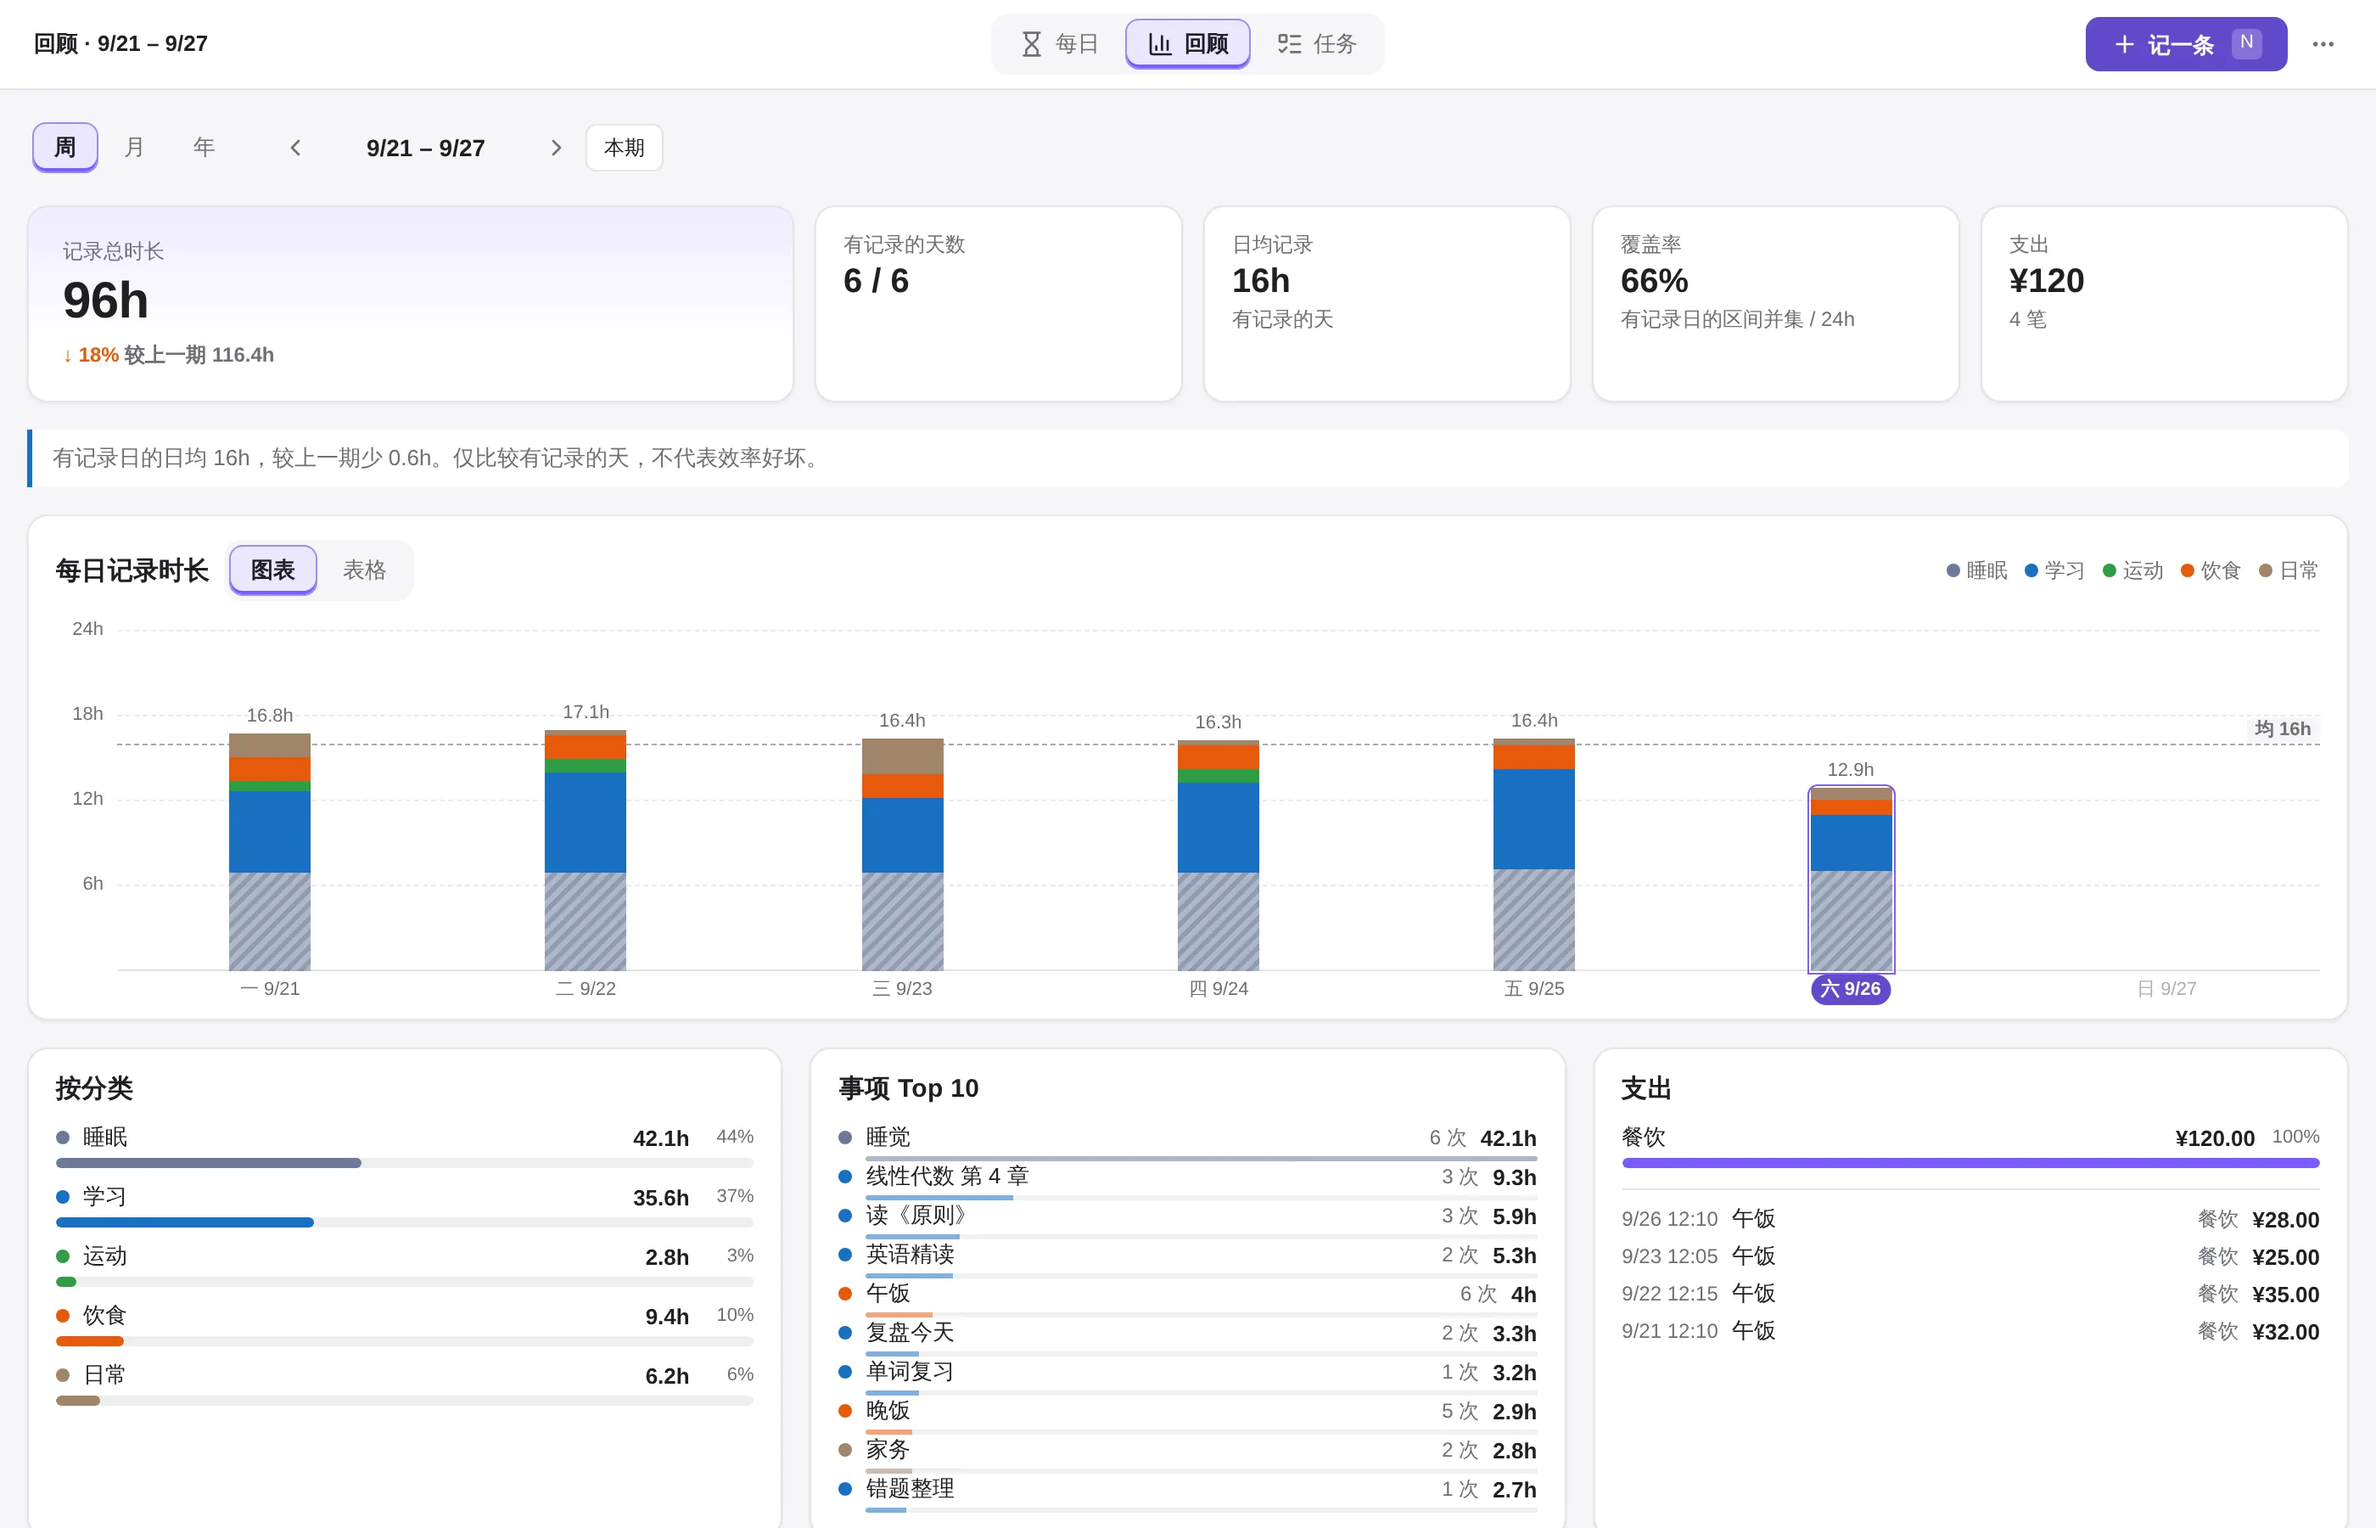
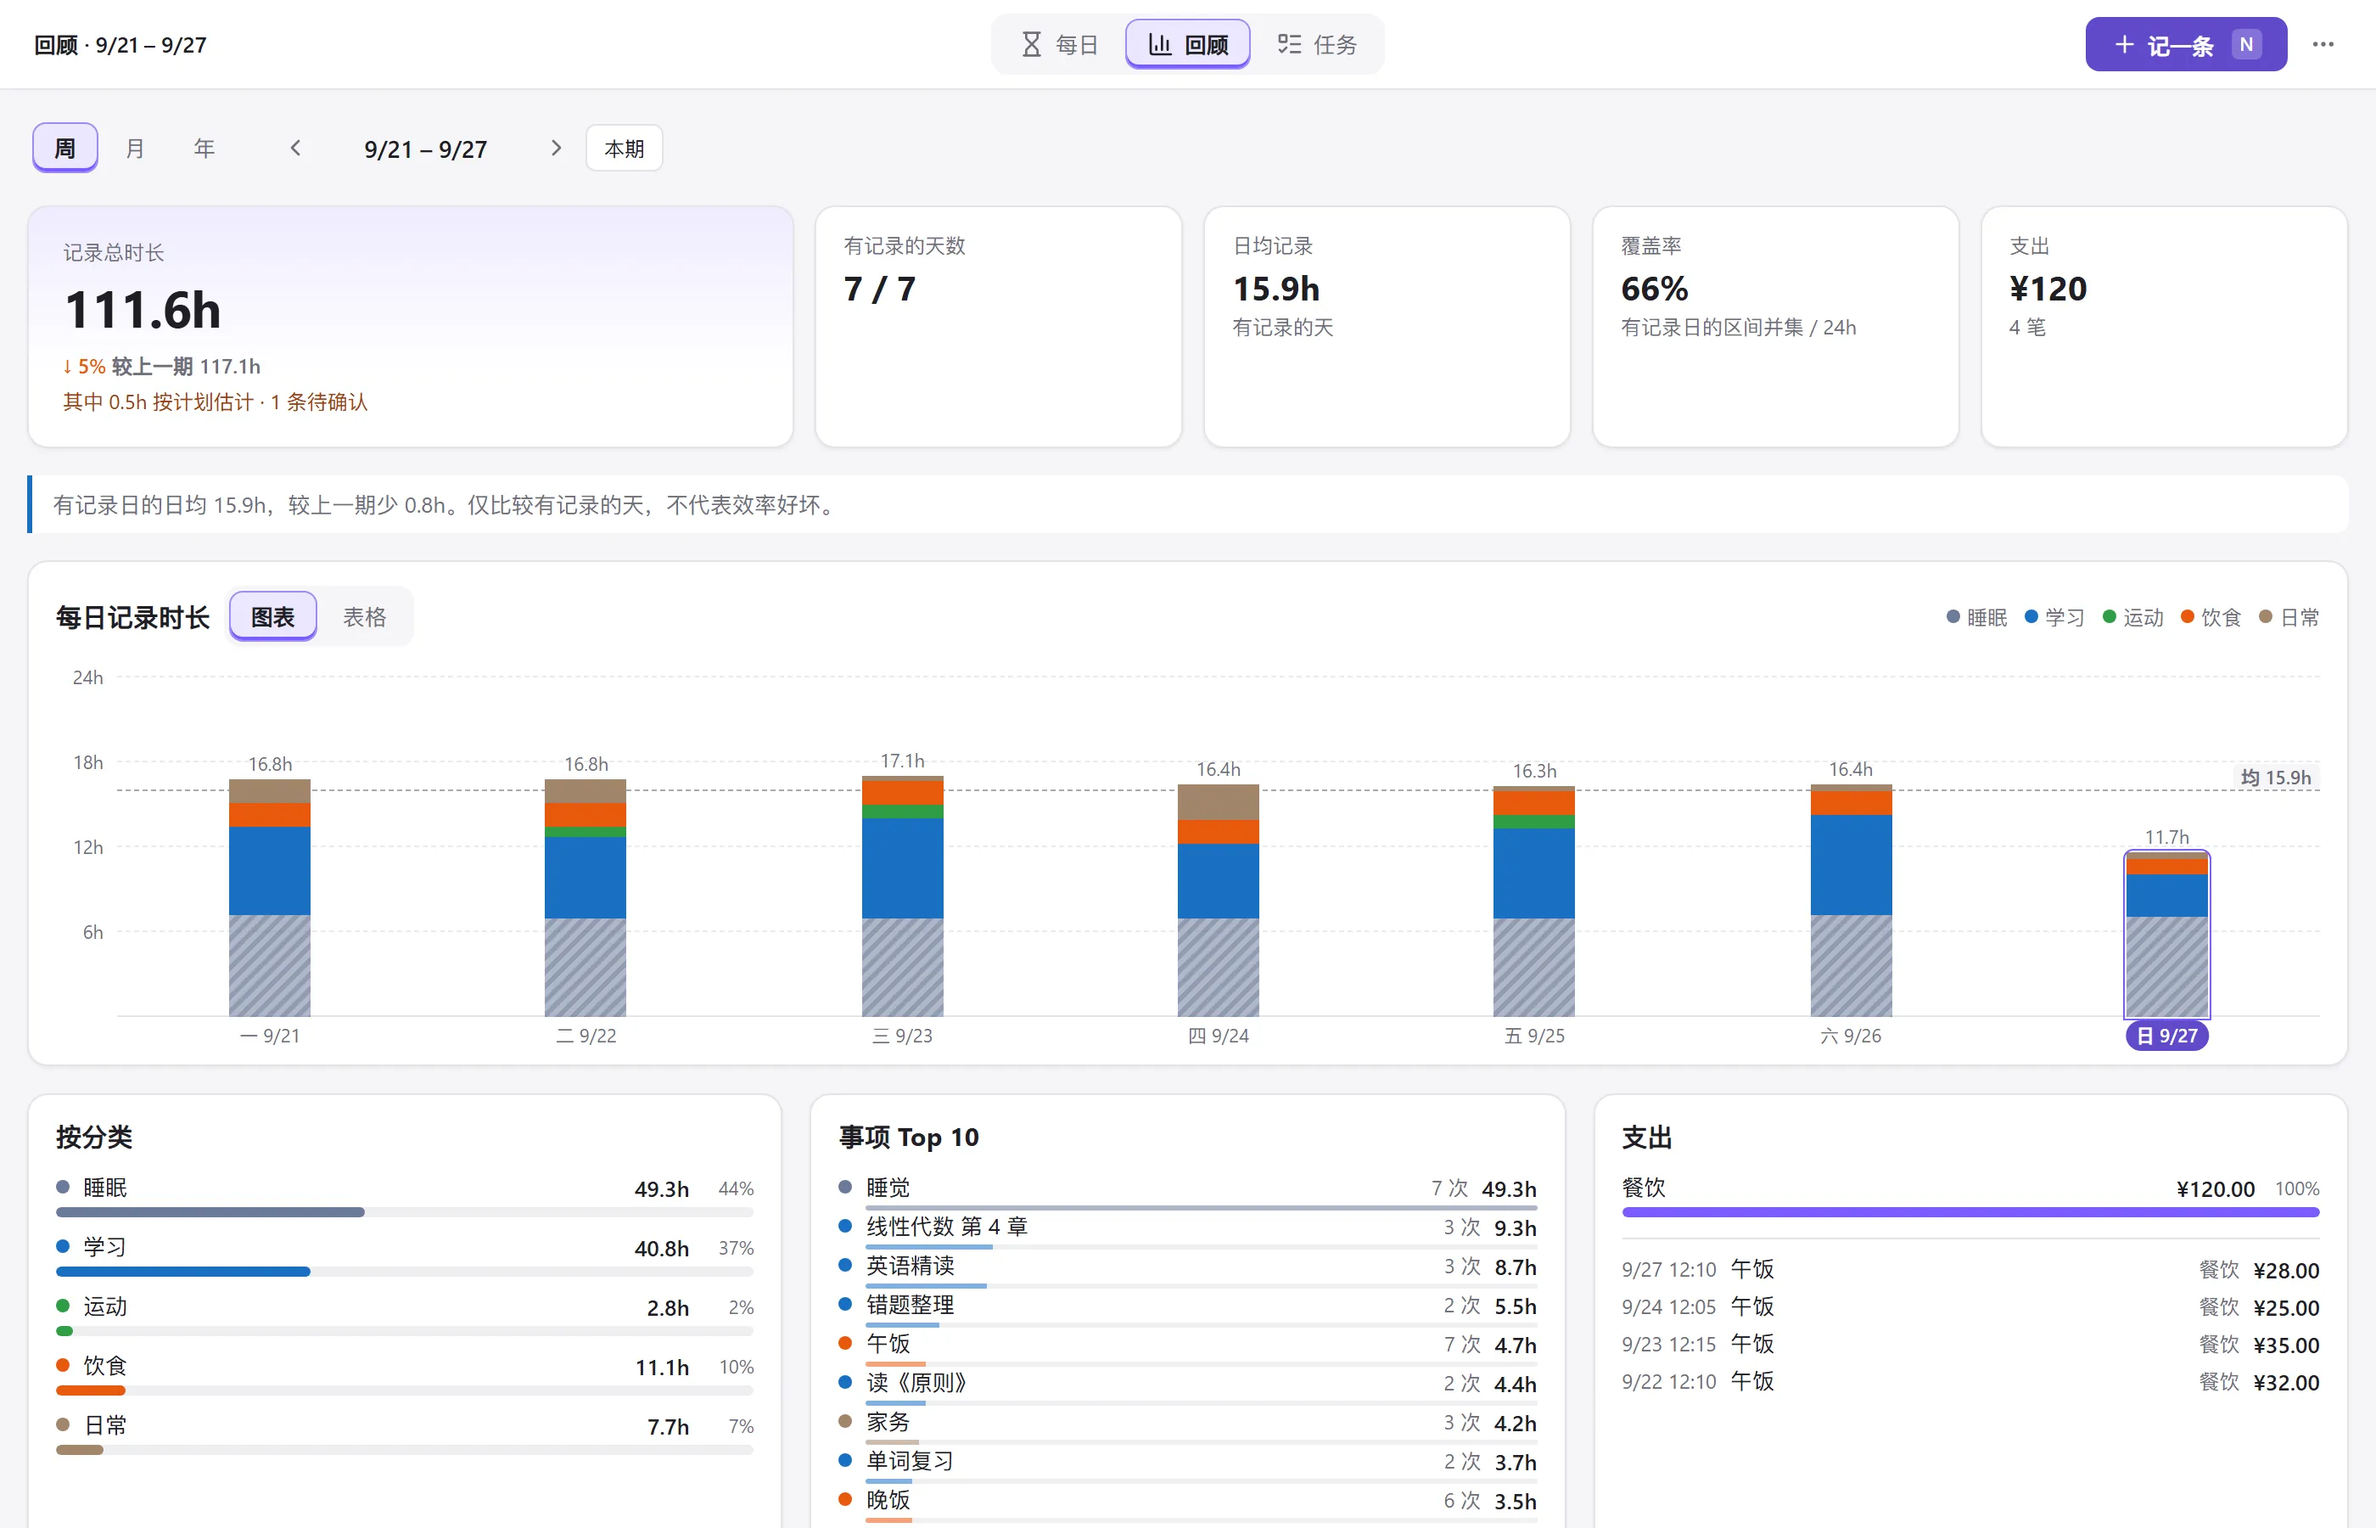
docs: README 与教学手册更新到 v1.5，截图全部重拍（演示数据补计划列 / 待确认示例，截图脚本固定时钟）

diff --git a/插件源码/lubi/scripts/screenshots.py b/插件源码/lubi/scripts/screenshots.py
@@ -4,7 +4,8 @@
 #   TZ=Asia/Shanghai node test/preview-manual.mjs    # 渲染静态预览页到 preview/manual/
 #   pip install playwright pillow && python -m playwright install chromium
 #   TZ=Asia/Shanghai python scripts/screenshots.py
-# 字体默认 Noto Sans CJK，可用 LUBI_FONT / LUBI_FONT_BOLD 指定。
+# 字体默认 Noto Sans CJK，可用 LUBI_FONT / LUBI_FONT_BOLD / LUBI_FONT_INDEX 指定
+# （Windows：LUBI_FONT=C:/Windows/Fonts/msyh.ttc LUBI_FONT_BOLD=C:/Windows/Fonts/msyhbd.ttc LUBI_FONT_INDEX=0）。
 import os
 from PIL import Image, ImageDraw, ImageFilter, ImageFont
 import asyncio, pathlib, io
@@ -16,7 +17,7 @@ RD = ROOT.parents[1] / "docs" / "images"                     # README 配图
 MAN.mkdir(parents=True, exist_ok=True); RD.mkdir(parents=True, exist_ok=True)
 def save(png, path, q=84):
     Image.open(io.BytesIO(png)).convert("RGB").save(path, "WEBP", quality=q, method=6)
-SCROLL = "(()=>{const s=document.querySelector('.lubi-timeline-scroll'); if(s) s.scrollTop=7*56-8; const w=document.querySelector('.lubi-week-body'); if(w) w.scrollTop=2*44-6;})()"
+SCROLL = "(()=>{const s=document.querySelector('.lubi-timeline-scroll'); if(s) s.scrollTop=7*48-8; const w=document.querySelector('.lubi-week-body'); if(w) w.scrollTop=2*48-6;})()"
 async def hover_big(pg):
     gaps = await pg.query_selector_all(".lubi-gap")
     best = max([(((await g.bounding_box()) or {"height":0})["height"], i) for i, g in enumerate(gaps)])
@@ -70,7 +71,8 @@ def hero():
         d.line([(0, y), (W, y)], fill=c)
     font = os.environ.get("LUBI_FONT_BOLD", "/usr/share/fonts/opentype/noto/NotoSansCJK-Bold.ttc")
     reg = os.environ.get("LUBI_FONT", "/usr/share/fonts/opentype/noto/NotoSansCJK-Regular.ttc")
-    F = lambda p, s, i=2: ImageFont.truetype(p, s, index=i)  # index 2 = SC
+    FI = int(os.environ.get("LUBI_FONT_INDEX", "2"))  # Noto CJK .ttc 里 index 2 = SC；Windows 微软雅黑用 0
+    F = lambda p, s, i=FI: ImageFont.truetype(p, s, index=i)
     def card(path, w):
         im = Image.open(path).convert("RGB")
         h = int(im.height * w / im.width); im = im.resize((w, h), Image.LANCZOS)
@@ -90,7 +92,7 @@ def hero():
     y = 392
     for t in ["记一条 · 时间轴与一行快速记录", "看一眼 · 周 / 月 / 年回顾与热力图", "排一下 · 周日程、负载条与项目"]:
         d.ellipse([70, y + 11, 80, y + 21], fill="#5b45c9"); d.text((94, y), t, font=F(reg, 22), fill="#3b3a4a"); y += 42
-    pill = "v1.4 · 纯 Markdown 数据 · 开源 MIT"
+    pill = "v1.5 · 纯 Markdown 数据 · 开源 MIT"
     tw = d.textlength(pill, font=F(reg, 19))
     d.rounded_rectangle([68, 540, 68 + tw + 40, 580], 20, fill="#5b45c9")
     d.text((88, 547), pill, font=F(reg, 19), fill="white")

diff --git a/docs/mcp-lubi-v1.5-changes.md b/docs/mcp-lubi-v1.5-changes.md
@@ -15,6 +15,16 @@
 | 7 | 顶栏主按钮「新建」含义模糊 | 每日 / 回顾页显示「记一条」，任务页显示「加任务」 | `插件源码/lubi/src/ui/view.ts` |
 | 8 | 预览生成依赖运行时刻，深夜运行时布局用例失败 | 演示数据至少生成到 14:00；取块 / 任务行时有兜底 | `插件源码/lubi/test/preview.mjs` |
 
+## 发布前追加（同为 v1.5.0）
+
+| # | 问题 | 改动 | 文件 |
+|---|---|---|---|
+| 9 | 周日程表头与表身列线错位（表身滚动条挤窄了 7 列，越往右偏得越多） | 表头多一条与滚动条等宽的轨道，宽度由 ResizeObserver 实测写入 `--lubi-week-sbw` | `插件源码/lubi/src/ui/tasks.ts`、`插件源码/lubi/styles.css`、`插件源码/lubi/test/preview.mjs` |
+| 10 | 表头每天都有空负载条和「—」，没有全天任务也留空白 | 没排计划不画负载条，没有全天任务不建全天条，表头收紧 | `插件源码/lubi/src/ui/tasks.ts`、`插件源码/lubi/styles.css` |
+| 11 | 周日程固定周一开始，周日时今天挤在最右 | 改为以当前日期为中心的连续 7 天；「本周」改「今天」；点窗口内的日期不挪窗口 | `插件源码/lubi/src/ui/tasks.ts`、`插件源码/lubi/src/ui/view.ts` |
+| 12 | 每日页删除关联记录后任务还留在任务页 | 一次性任务且无其他关联记录 → 一起删除；重复任务 / 项目 / 仍有关联 → 只取消当天完成；可撤销 | `插件源码/lubi/src/ui/taskList.ts` |
+| 13 | README / 教学手册 / 截图停留在 v1.4 | 教学手册按 v1.5 重写相关章节；演示数据补计划列与待确认示例；截图脚本时钟固定 14:30、刻度改 48px、支持 Windows 字体；全部截图重拍 | `Lubi 教学手册.md`、`README.md`、`插件源码/lubi/test/demo-data.mjs`、`插件源码/lubi/test/preview-manual.mjs`、`插件源码/lubi/scripts/screenshots.py`、`docs/images/`、`附件/lubi手册/` |
+
 ## 验证
 
 - `npx tsc -noEmit -skipLibCheck` 通过。
